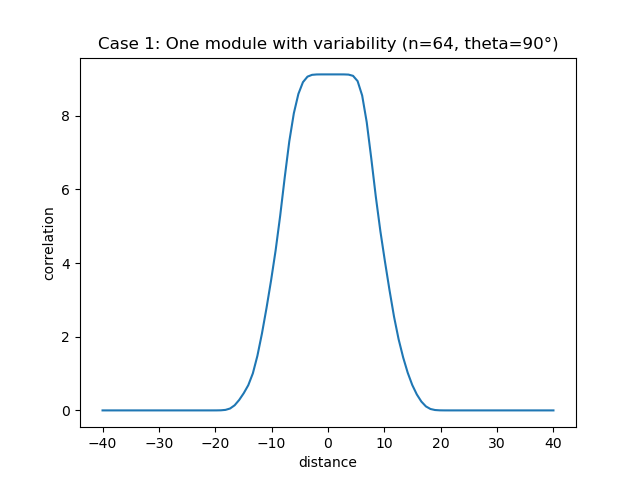
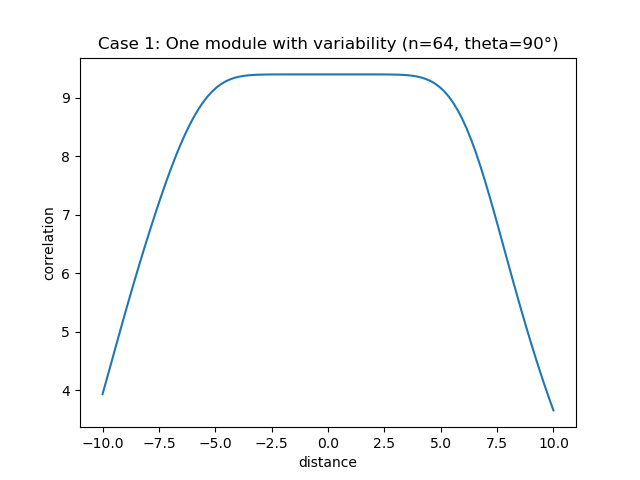
Multicell correlation for a single module working.
ToDo: Multi module and clean up plot structure

diff --git a/py/multicell_corr_module.py b/py/multicell_corr_module.py
@@ -1,0 +1,135 @@
+import matplotlib.pyplot as plt
+# from matplotlib.backends.backend_agg import FigureCanvasAgg
+# from matplotlib.figure import Figure
+# from matplotlib.animation import FuncAnimation  
+import numpy as np
+import scipy as sp
+from tqdm import tqdm
+from itertools import product
+from Core import *
+
+# Defined in module Core, change both here and there for appropriate effect
+N = 10
+R = 3
+num_points = 100
+
+# Globals
+gridOrientation = 0                 # Mean orientation of grid cells (in degrees)
+oriStd = 10                         # Std for sampling grid orientation
+gridSpacing = 1                     # Mean spacing of grid cells (in meters)    
+spacingStd = 0                      # Std for sampling grid spacing
+arenaSize = 1                       # Size of arena (in meters)       
+gausswidth = 0.3                    # Width of the gaussian used for each cell
+nNeurons = 512                       # Sizes of populations of grid cells to be tested
+# nSamples = 2                      # Number of independent populations to test per size
+# nDecoding = 10                    # Number of random spiking vectors to draw per position
+# gridFiring_max_mean = 13          # Mean max firing rate for idealized model
+# gridFiring_max_std = 8            # Std for max firing rate
+nModules = 4                        # Number of modules 
+
+configstr = f"gridOrientation:{gridOrientation}, oriStd:{oriStd}, gridSpacing:{gridSpacing}, spacingStd:{spacingStd}, arenaSize:{arenaSize}, gausswidth:{gausswidth}, nModules:{nModules} "
+meta = { "GRIDCONFIG": configstr }
+print(meta)
+
+def multicorr_fig(axs: list[plt.Axes], oriStd = oriStd, spacingStd=spacingStd, gausswidth=gausswidth, nNeurons=nNeurons):
+    ''' Multicell correlation plot generator for single module'''
+
+    orientations = np.random.normal(gridOrientation, oriStd, nNeurons)
+    spacings = np.random.normal(gridSpacing, spacingStd, nNeurons)
+    phases = np.random.uniform(-arenaSize, arenaSize, (nNeurons,2))
+
+    params = list(zip(spacings, phases, orientations))
+    Xs, Ys = [], []
+    for param in params:
+        X,Y = Lattice(*param, N=20)
+        Xs.append(X) 
+        Ys.append(Y)
+
+    # def plot_sample_ratefield():
+    #     r = np.linspace(-R,R,200)
+    #     x,y = np.meshgrid(r, r)
+    #     activity = GaussLattice(x,y, Xs, Ys, gausswidth)
+    #     plt.imshow(activity)
+    #     plt.show()
+    #     plt.close()
+    #     print(np.min(activity))
+
+    # print("plotting now")
+    # plot_sample_ratefield()
+    
+    def corralong_dir(ax, t=0):
+        r = np.linspace(-R,R,num_points)
+        theta = np.radians(t)
+        x = r*np.cos(theta)
+        y = r*np.sin(theta)
+        activity_init = GaussLattice(0, 0, Xs, Ys, gausswidth)
+        activity = GaussLattice(x, y, Xs, Ys, gausswidth)
+        # print(activity_init)
+        # print("------------")
+        # print(activity)
+        # return
+        dot_product = np.dot(activity, activity_init)  # Shape (400,)
+        norm_activity_init = np.linalg.norm(activity_init)
+        norm_activity = np.linalg.norm(activity, axis = 1)
+        corr_activity = dot_product/ (norm_activity_init * norm_activity)
+        
+        ax.plot(r,corr_activity )
+        # ax.set_title(r"$\theta$ = " +f"{t} , n = {nNeurons}, \n std={spacingStd}, width={gausswidth}", wrap=True)
+        ax.set_title(f"std={spacingStd}, width={gausswidth}", wrap=True)
+        # ax.set_xlabel("Distance")
+        # ax.set_ylabel("Correlation")
+        ax.set_ylim((0,1.1))
+
+    global angles
+    # angles = list(10*i for i in range(0,18))
+    angles = np.linspace(0,180,len(axs))
+    for i,angle in enumerate(angles):
+        corralong_dir(axs[i], angle)
+
+def multicorr_plotter():
+    s = 4
+    fig, axs = plt.subplots(nrows=9,ncols=3, figsize=(2*s,3.5*s))
+
+    spacingStds = [0,0.1,0.2]
+
+    for i in range(3):
+        multicorr_fig( axs[i], spacingStd=spacingStds[i], gausswidth=0.2 )
+    for i in range(3):
+        multicorr_fig( axs[3+i], spacingStd=spacingStds[i], gausswidth=0.3 )
+    for i in range(3):
+        multicorr_fig( axs[6+i], spacingStd=spacingStds[i], gausswidth=0.4 )
+    
+    # line = plt.Line2D([0, 1], [0.35, 0.35], color="black", linewidth=1, transform=fig.transFigure, linestyle="--")
+    # fig.add_artist(line)
+
+    fig.suptitle(f"nNeurons = {nNeurons} OriStd = {oriStd}\n \n", fontsize='xx-large')
+    plt.tight_layout(rect=[0, 0, 0.95, 1])
+
+    pos1 = axs[2, 2].get_position().y0
+    fig.text(0.95, pos1+0.1 , "width = 0.2", rotation=90, fontsize=14)
+    fig.add_artist(plt.Line2D([0, 1], [pos1-0.017, pos1-0.017], linewidth=1, linestyle='--', color='black'))
+
+    pos2 = axs[5, 2].get_position().y0
+    fig.text(0.95, pos2+0.1 , "width = 0.3", rotation=90, fontsize=14)
+    fig.add_artist(plt.Line2D([0, 1], [pos2-0.017, pos2-0.017], linewidth=1, linestyle='--', color='black'))
+
+    pos3 = axs[8, 2].get_position().y0
+    fig.text(0.95, pos3+0.1 , "width = 0.4", rotation=90, fontsize=14)
+    # fig.add_artist(plt.Line2D([0, 1], [pos3-0.01, pos3-0.01], linewidth=1, linestyle='--', color='black'))
+
+    # fig.text(0.95, 0.5, "width = 0.2", ha='center', va='center', rotation=90, fontsize=14)
+    # fig.text(0.95, 0.5, "width = 0.2", ha='center', va='center', rotation=90, fontsize=14)
+
+
+    
+    for i in range(3):
+        pos = axs[0, i].get_position()  
+        centerpos = (pos.x0 + pos.x1)/2
+        print(centerpos)
+        fig.text( centerpos, pos.y1 + 0.03, r"$\theta$ = " +f"{angles[i]}", ha='center', va='center', fontsize=14, fontweight='bold')
+
+    plt.savefig(f"Results/multicell_correlation_n_{nNeurons}_ori_{oriStd}.png")
+    # plt.show()
+
+
+multicorr_plotter()

diff --git a/py/Simulation.py b/py/Simulation.py
@@ -1,10 +1,17 @@
 import matplotlib.pyplot as plt
-from matplotlib.animation import FuncAnimation  
+# from matplotlib.backends.backend_agg import FigureCanvasAgg
+# from matplotlib.figure import Figure
+# from matplotlib.animation import FuncAnimation  
 import numpy as np
 import scipy as sp
 from tqdm import tqdm
 from itertools import product
 from Core import *
+
+# Defined in module Core, change both here and there for appropriate effect
+N = 50
+R = 10
+num_points = 400
 
 # Set random seed
 # np.random.seed(1)
@@ -13,24 +20,39 @@ from Core import *
 gridOrientation = 0                 # Mean orientation of grid cells (in degrees)
 oriStd = 10                         # Std for sampling grid orientation
 gridSpacing = 1                     # Mean spacing of grid cells (in meters)    
-spacingStd = 0.2                    # Std for sampling grid spacing
+spacingStd = 0                      # Std for sampling grid spacing
 arenaSize = 1                       # Size of arena (in meters)       
-nNeurons = 32                        # Sizes of populations of grid cells to be tested
+gausswidth = 0.3                    # Width of the gaussian used for each cell
+nNeurons = 32                       # Sizes of populations of grid cells to be tested
 # nSamples = 2                      # Number of independent populations to test per size
 # nDecoding = 10                    # Number of random spiking vectors to draw per position
 # gridFiring_max_mean = 13          # Mean max firing rate for idealized model
 # gridFiring_max_std = 8            # Std for max firing rate
+nModules = 4                        # Number of modules 
+
+configstr = f"gridOrientation:{gridOrientation}, oriStd:{oriStd}, gridSpacing:{gridSpacing}, spacingStd:{spacingStd}, arenaSize:{arenaSize}, gausswidth:{gausswidth}, nModules:{nModules} "
+meta = { "GRIDCONFIG": configstr }
+print(meta)
+
+# Case M1V0 ========== 1 module no variation ====================================
+c = 1
+
+# Case M1V1 ========== 1 module with variation ==================================
+
+# Case MnV0 ========== Many module no variation =================================
+
+# Case MnV1 ========== Many module with variation =============================== 
 
 # Randomly generate nNeuron number of grid cells
 orientations = np.random.normal(gridOrientation, oriStd, nNeurons)
 spacings = np.random.normal(gridSpacing, spacingStd, nNeurons)
 phases = np.random.uniform(-arenaSize, arenaSize, (nNeurons,2))
-print(phases)
+# print(phases)
 
 params = list(zip(spacings, phases, orientations))
 Xs, Ys = [], []
 for param in params:
-    X,Y = Lattice(*param, N=10)
+    X,Y = Lattice(*param, N=20)
     # plt.scatter(X, Y)
     # plt.title("The distributed lattice points")
     Xs.append(X) 
@@ -43,24 +65,62 @@ for param in params:
 # print(GaussLattice(x,x,Xs,Ys))
 
 def corralong_dir(t=0):
-    
     r = np.linspace(-R,R,num_points)
     theta = np.radians(t)
     x = r*np.cos(theta)
     y = r*np.sin(theta)
+    # print(x.shape)
+    activity_init = GaussLattice(0, 0, Xs, Ys, gausswidth)
+    # activity_init2 = np.vstack([activity_init]*num_points)
+    activity = GaussLattice(x, y, Xs, Ys, gausswidth)
+    # print(np.vstack([activity_init]*num_points).shape)
+    # print((activity_init).shape)
+    # print((activity).shape)
 
-    activity_init = GaussLattice(0, 0, Xs, Ys)
-    activity = GaussLattice(x, y, Xs, Ys)
-    corr_activity = np.sqrt(activity@activity_init/nNeurons)
+    # print(activity)
+    # print(activity_init)
+    dot_product = np.dot(activity, activity_init)  # Shape (400,)
+    norm_activity_init = np.linalg.norm(activity_init)
+    norm_activity = np.linalg.norm(activity, axis = 1)
+
+    corr_activity = dot_product/ (norm_activity_init * norm_activity)
+    # print(dot_product)
+    # print(norm_activity)
+    # print("hi")
+    # print(norm_activity_init)
+
+    # print(corr_activity.shape)
+    # return
+    # print((activity_init/activity_init).shape)
+    # return
+    # corr_activity = np.sqrt(activity*activity_init/(nNeurons))
+    # corr_activity = np.sqrt(activity@activity_init/(nNeurons**1))
+    # corr_activity = np.linalg.norm((activity-activity_init)/nNeurons, axis=1)
+    # print(corr_activity.shape)
+    # return
+
     # print((activity@activity_init).shape)
+
+    # fig = Figure(figsize=(5, 4), dpi=100)
+    # canvas = FigureCanvasAgg(fig)
+    # ax = fig.add_subplot()
+
+    # ax.plot(r,corr_activity )
+    # ax.set_title(r"Correlation along $\theta$ = " +f"{t} , n = {nNeurons}")
+    # ax.set_xlabel("Distance")
+    # ax.set_ylabel("Correlation")
+    # ax.set_ylim((0,1.1))
+    # fig.savefig(f"Results/plot_cases2/n{nNeurons}_theta{t}_width{gausswidth}.png", metadata=meta)
+
     plt.plot(r,corr_activity )
     plt.title(r"Correlation along $\theta$ = " +f"{t} , n = {nNeurons}")
     plt.xlabel("Distance")
     plt.ylabel("Correlation")
-    plt.ylim((0,10))
-    plt.savefig(f"Results/plot_cases2/n{nNeurons}_theta{t}.png")
+    plt.ylim((0,1.1))
+    plt.savefig(f"Results/plot_cases2/n{nNeurons}_theta{t}_width{gausswidth}.png", metadata=meta)
     plt.close()
 
 angles = list(10*i for i in range(0,18))
 for angle in angles:
     corralong_dir(angle)
+    # break

diff --git a/py/Core.py b/py/Core.py
@@ -5,9 +5,9 @@ import scipy as sp
 from tqdm import tqdm
 from itertools import product
 
-N = 50
-R = 40
-num_points = 400
+N = 10
+R = 3
+num_points = 100
 
 def Lattice(l=1,l0=[0,0],t0=0,N=3):
     '''Return an array of x coordinates and y coordinates that create a hexagonal lattice
@@ -21,8 +21,8 @@ def Lattice(l=1,l0=[0,0],t0=0,N=3):
     # apply rotation
     theta = np.radians(t0)
     c, s = np.cos(theta), np.sin(theta)
-    R = np.array(((c, -s), (s, c)))
-    a,b = R@a0 , R@b0 
+    Rot = np.array(((c, -s), (s, c)))
+    a,b = Rot@a0 , Rot@b0 
     X = a[0]*m + b[0]*n + l0[0]
     Y = a[1]*m + b[1]*n + l0[1]
     return X,Y

diff --git a/py/plot_simulations.py b/py/plot_simulations.py
@@ -3,7 +3,7 @@ import numpy as np
 from Core import Lattice, GaussLattice
 
 ARENA_SIZE = 1 # size of arena (in meters)
-R = 40 # maximum distance for correlation 
+R = 10 # maximum distance for correlation 
 N_POINTS = 100 # number of points along the line
 NEURON_COUNTS = [16, 32, 64] # different numbers of grid cells to simulate
 M = 4 # number of modules for case 3
